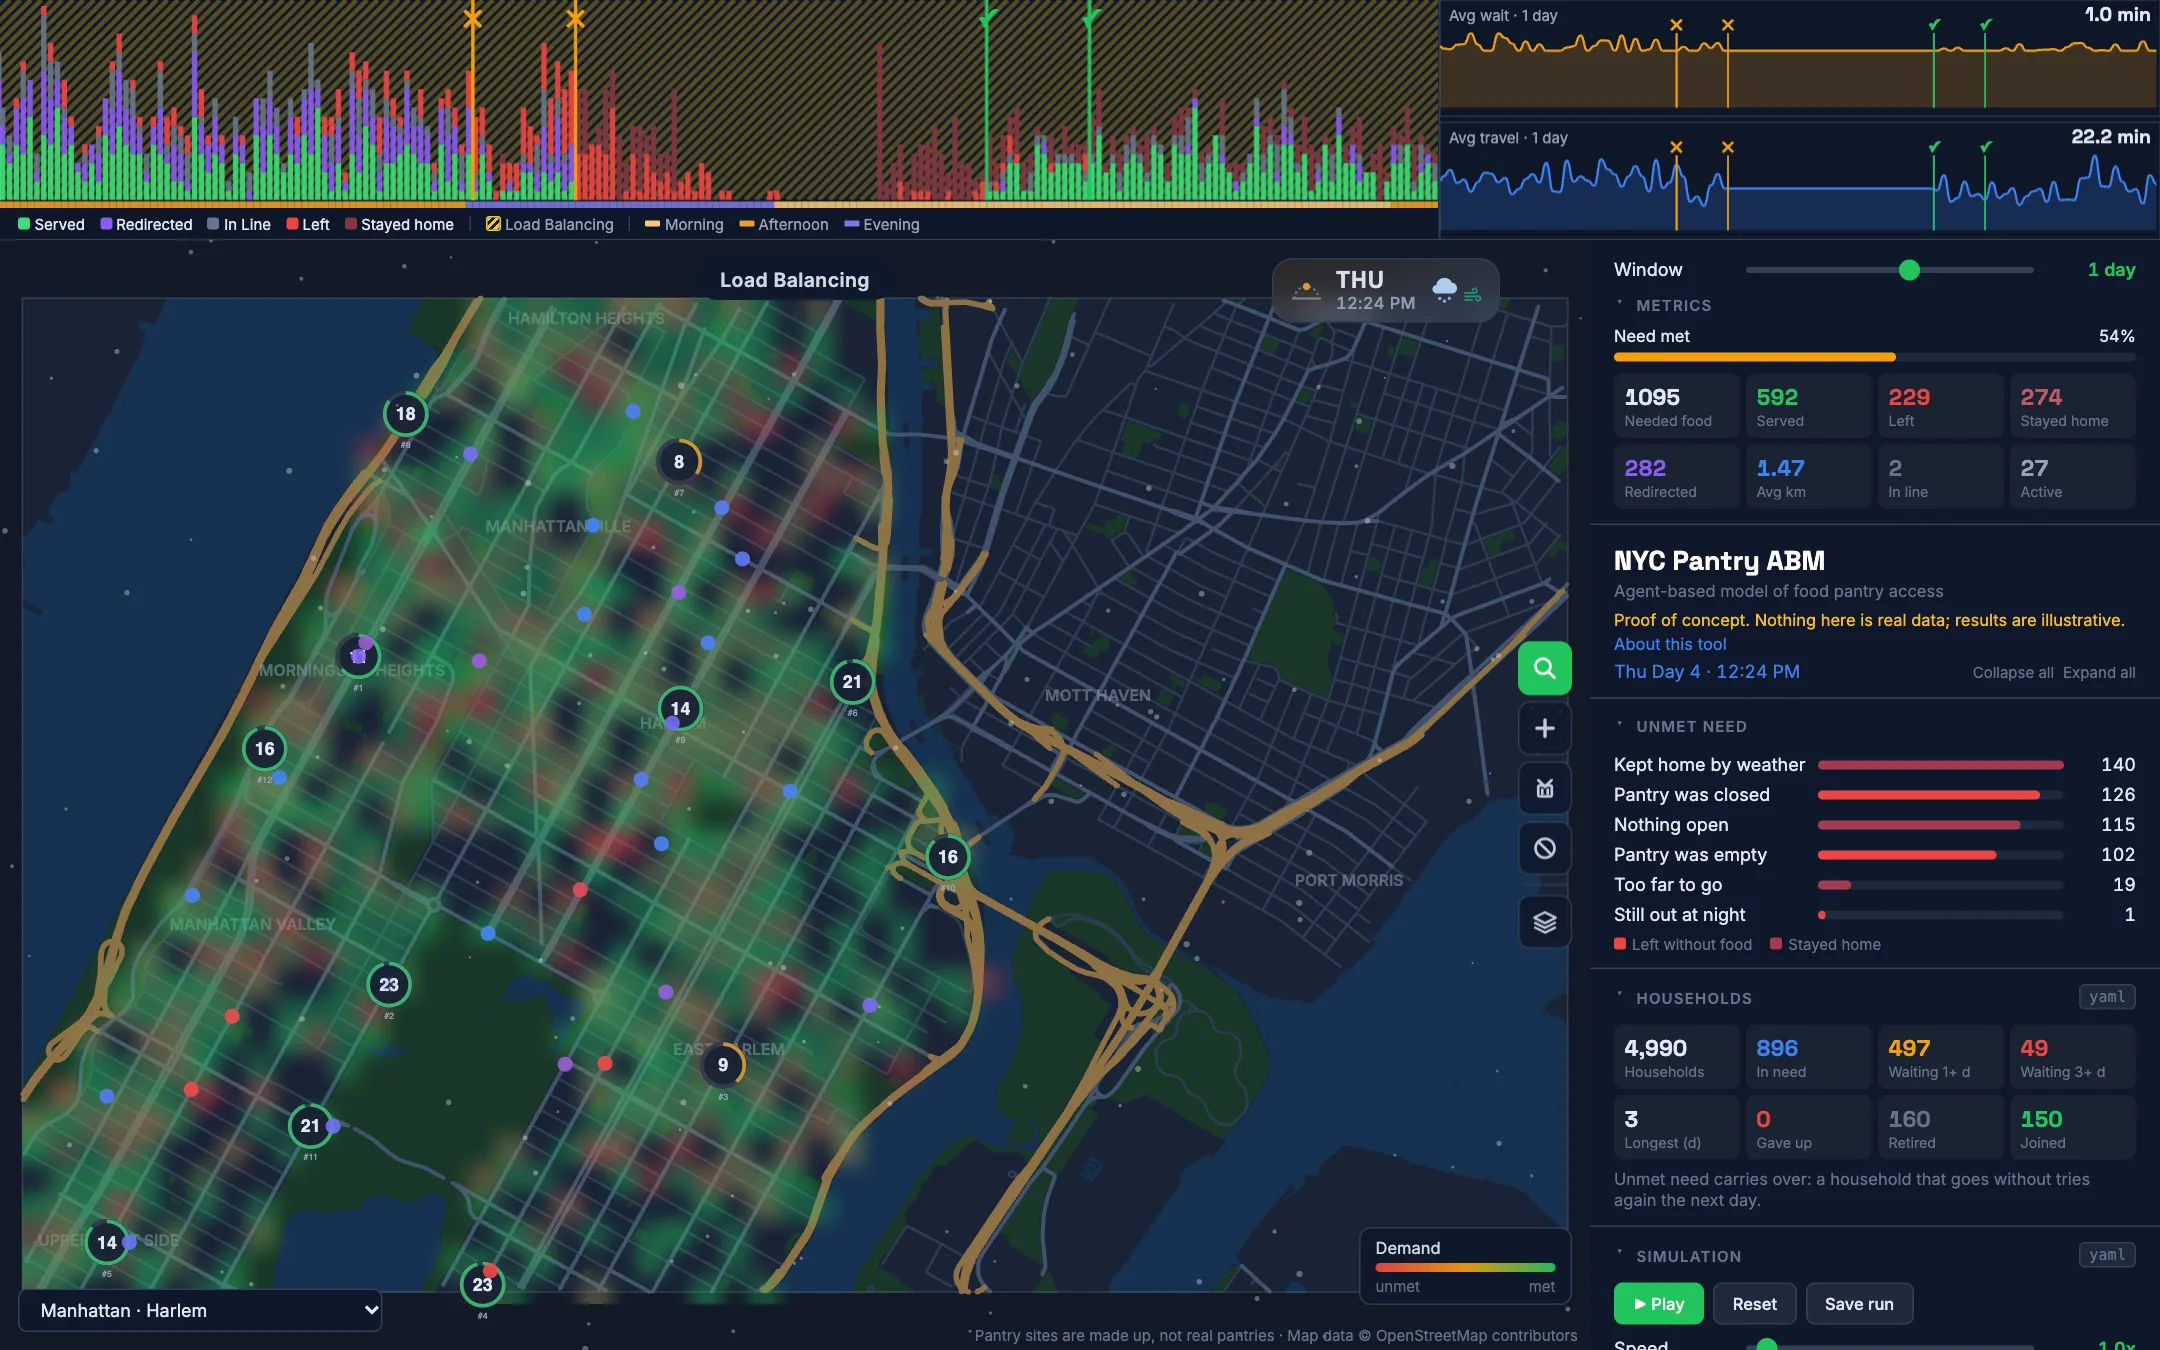
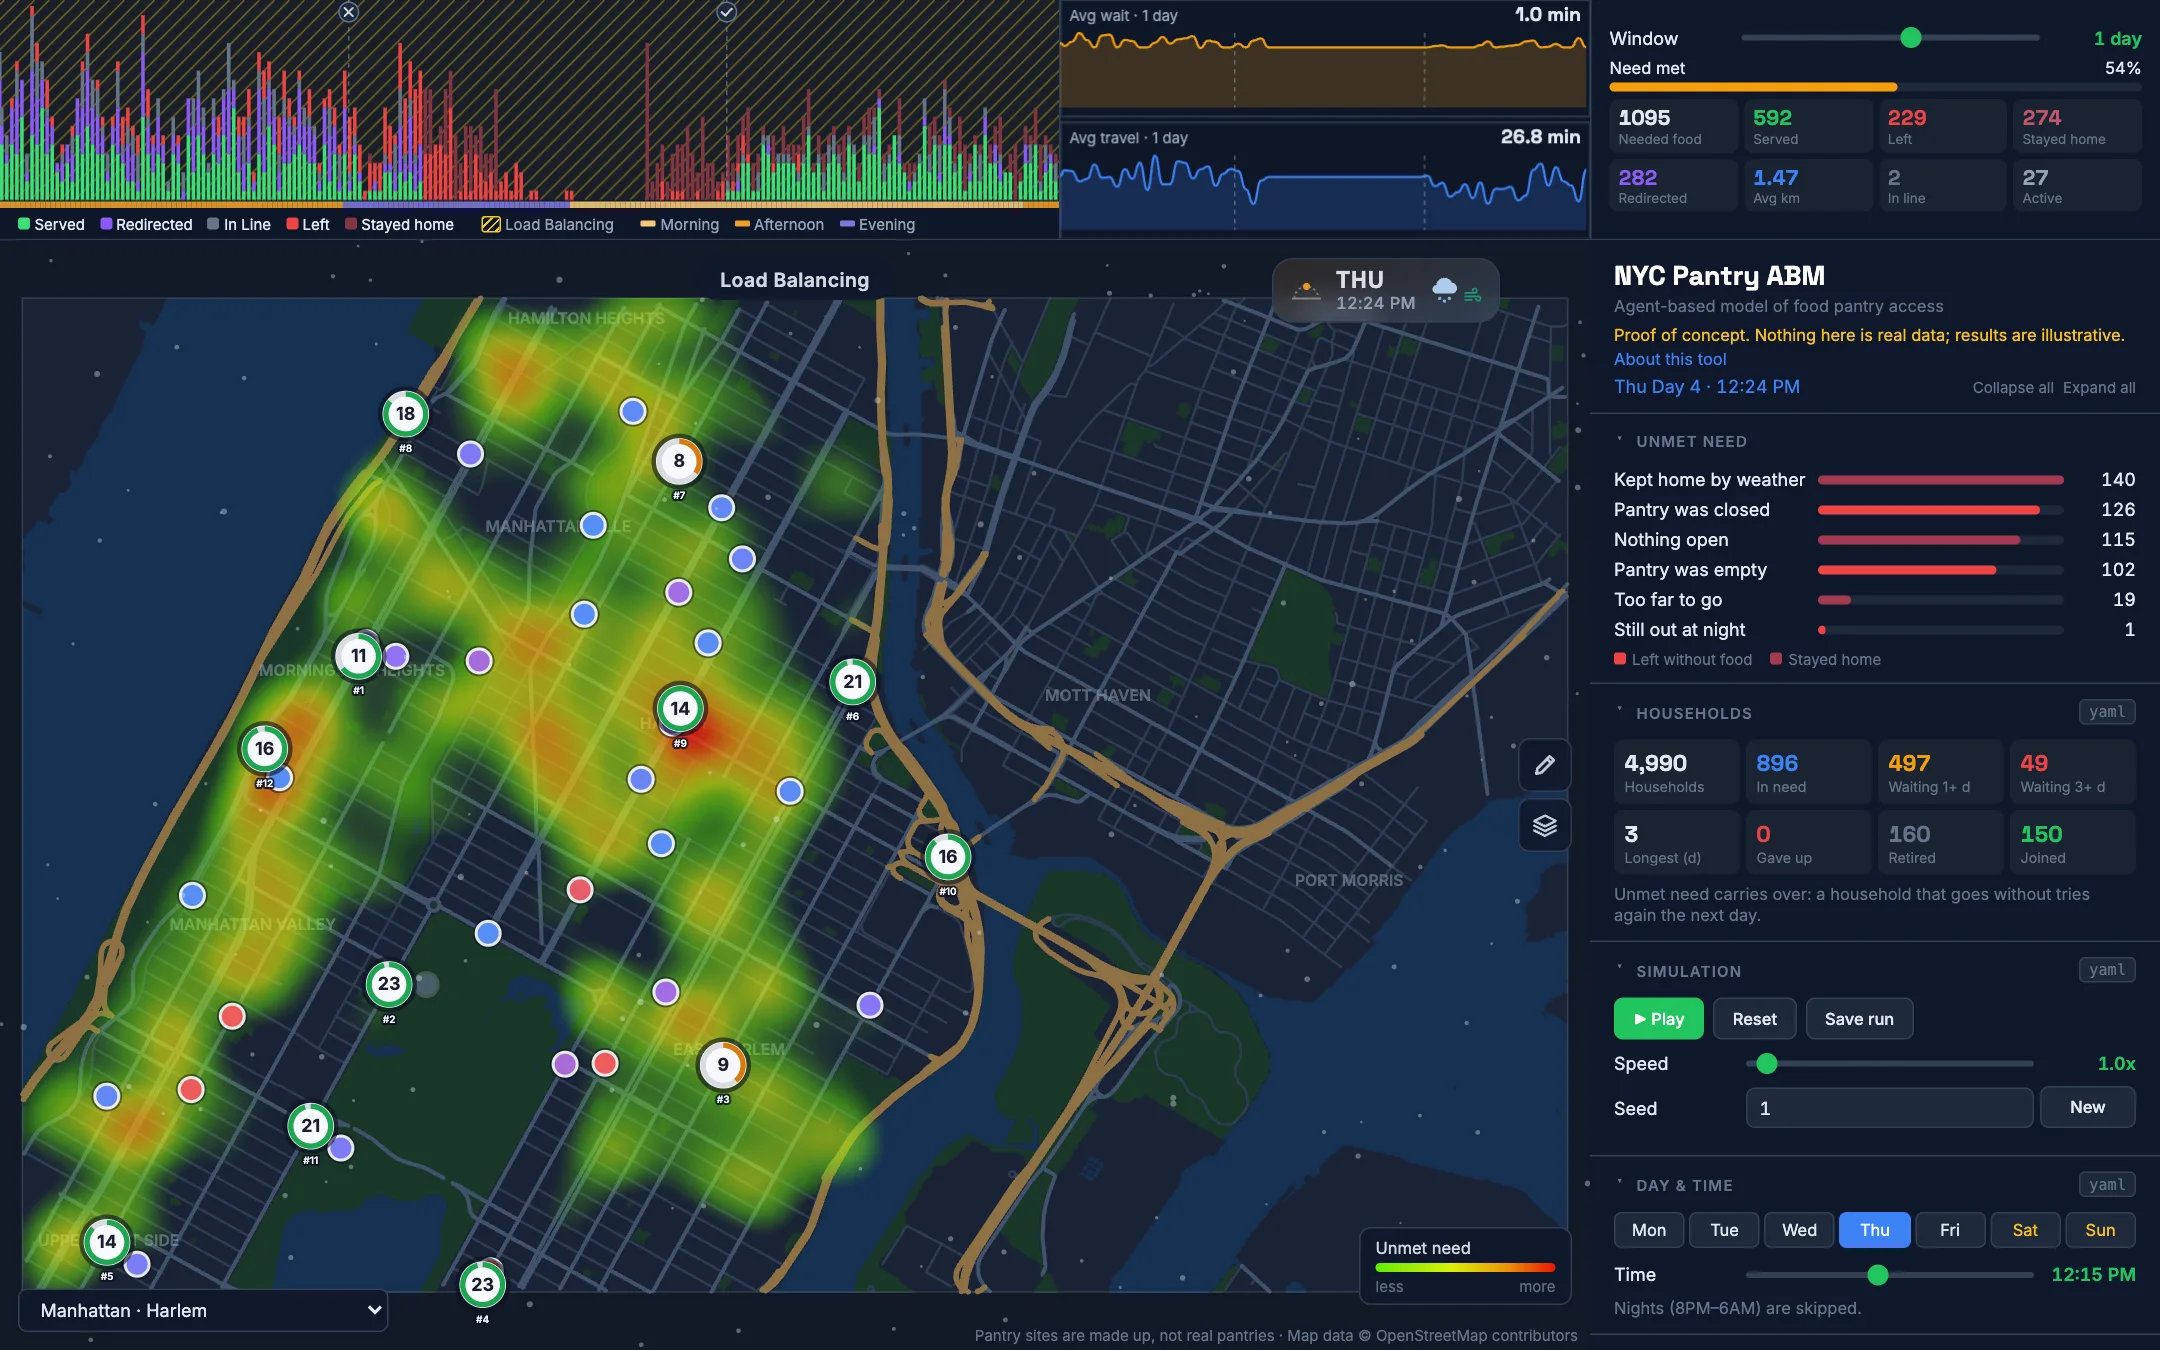
Bring the README and screenshots up to date with the new interface
- Describe the top bar (timeline, sparklines, numbers), the new pantry and
  people markers, event markers, and the per-modifier background patterns.
- Rewrite "Map tools" for the Pantry tools and Layers menus and the unmet
  need heatmap.
- Note that the tool starts from a random seed and how to pin one.
- Retake the four README screenshots and the link-preview image.

diff --git a/README.md b/README.md
@@ -8,7 +8,7 @@ The maps are real segments of the five boroughs, built from OpenStreetMap.
 
 **Status: proof of concept.** Apart from the street maps, nothing in it is real data yet. Pantries, households and their behavior are made up, and results are illustrative.
 
-![The tool on day 3 of a run on the Manhattan map: timeline and sparklines across the top, the map with pantries, people walking and households still waiting, and the panel with need met, reasons for unmet need, and the household pool](docs/screenshots/overview.webp)
+![The tool on day 3 of a run on the Manhattan map: timeline, sparklines and headline numbers across the top, the map with pantries and people walking, and the panel with the reasons for unmet need and the household pool](docs/screenshots/overview.webp)
 
 ## Why this exists
 
@@ -38,16 +38,18 @@ npm run build      # static site in dist/ (relative paths, so it works from any 
 
 The tool is designed for desktop and laptop screens, not phones.
 
-- **Timeline (top left).** Stacked bars of people served, redirected, waiting in line, leaving without food, and staying home, per time slice. Stripes behind the bars show which modifiers were on. The thin strip along the bottom shows the time of day: morning, afternoon or evening. Click a legend item to hide that band.
-- **Sparklines (top right).** Average wait and average travel time. Event markers (shocks, pantries added, removed, closed or reopened) line up with the timeline.
-- **Map.** Pantries show their remaining stock as a ring. A moon means the pantry is closed for the night; an X means you closed it by hand. Dots on the move are people on a trip; their color shows how they're doing, and it starts redder the longer their household has gone without. Small amber and red dots mark the homes of households still waiting for food (amber for 1–2 days, red for 3 or more). People too far from any pantry waggle in place and then time out.
-- **Panel (right).** Every section collapses. The **Window** slider at the top sets the time span for every chart and for the metrics, from 1 hour to the whole run.
+- **Timeline (top left).** Stacked bars of people served, redirected, waiting in line, leaving without food, and staying home, per time slice. A faint pattern behind the bars shows which modifiers were on; each modifier has its own pattern and color. The thin strip along the bottom shows the time of day: morning, afternoon or evening. Click a legend item to hide that band.
+- **Event markers.** A heavy line with a badge marks a shock, or a pantry you added, removed, closed or reopened. Quieter dashed lines mark the daily rhythm: a check where pantries start opening in the morning, a cross where they start closing in the evening.
+- **Sparklines (top middle).** Average wait and average travel time, with the same event markers.
+- **Numbers (top right).** The **Window** slider sets the time span for every chart and for these numbers, from 1 hour to the whole run. Below it are the share of need met and the counts for that window.
+- **Map.** Pantries are the large white disks. The number is the food left, and the ring around it shows how full the shelves are; an empty pantry shows a red 0. A dark disk with a moon is closed for the night, and a dark disk with an X is one you closed by hand. The smaller dots with white rings are people on a trip. The color inside shows how they're doing, and it starts redder the longer their household has gone without. People in line gather around the pantry. Someone who is turned away walks a short way back along their street and fades. People too far from any pantry waggle in place and then time out.
+- **Panel (right).** Controls and detail. Every section collapses.
 
 ### More screenshots
 
-Load balancing on, with the demand heatmap: green where people got food, red where they didn't. The stripes behind the timeline show when the modifier was on.
+Load balancing on, with the unmet need heatmap: the areas where the most households went without food, from green to red. The pattern behind the timeline shows when the modifier was on.
 
-![Load balancing with the demand heatmap on the Manhattan map](docs/screenshots/load-balancing-heatmap.webp)
+![Load balancing with the unmet need heatmap on the Manhattan map](docs/screenshots/load-balancing-heatmap.webp)
 
 A snow day on Staten Island's North Shore. Most unmet need comes from people kept home by the weather.
 
@@ -71,12 +73,13 @@ The **Households** section shows the pool: how many are in need, how many have w
 
 ### Map tools
 
-The toolbar on the right edge of the map lets you inspect, add, remove, and close or reopen pantries. The layers button turns these on and off:
+Two buttons sit on the right edge of the map.
 
-- Base map: water, parks, streets, highways, neighborhood names
-- Overlays: pantries, people on the move, households waiting, demand heatmap, weather effects
+**Pantry tools** opens a menu to add a pantry, remove one, or close and reopen one. Choose a tool, then click the map. The button turns green while a tool is on, and Escape puts it away. With no tool on, clicking a pantry inspects it.
 
-The **demand heatmap** colors each part of the map by where people started: green where they got food, red where they didn't. Stronger color means more people.
+**Layers** switches optional layers on and off. For now there is one, the unmet need heatmap. The base map, pantries, people and weather effects are always drawn.
+
+The **unmet need heatmap** shows where the households that went without food live, counted since the start of the run. Nearby areas merge into smooth patches that run from green through yellow to red. The scale is relative to the run: red is the worst area in this run, and areas with little unmet need are left clear. It shows where the gaps are, not how large they are compared with another run.
 
 ### Controls
 
@@ -89,7 +92,7 @@ The **demand heatmap** colors each part of the map by where people started: gree
 | Agents | Number of households, and how much capacity varies between pantries (both applied on Reset) |
 | Data | Summary of saved runs and CSV export |
 
-**Seed.** The seed fixes every random choice in a run: which pantry sites are used, the weather, who appears where, and what they decide. The same seed with the same settings replays the same run, on any machine. Type a seed or press New, then Reset. Two scenarios run on the same seed get the same pantries, weather and arrivals, so differences between them come from the scenario and not from luck.
+**Seed.** The seed fixes every random choice in a run: which pantry sites are used, the weather, who appears where, and what they decide. The same seed with the same settings replays the same run, on any machine. The tool picks a new random seed each time it loads and shows it in the Seed box, so note it down if you want to replay a run. Type a seed or press New, then Reset. To always start from the same seed, set `initial_seed` in `config/simulation.yaml` to a number. Two scenarios run on the same seed get the same pantries, weather and arrivals, so differences between them come from the scenario and not from luck.
 
 ### Settings
 
@@ -101,7 +104,7 @@ Every setting lives in a YAML file in `config/`, and every name ends with its un
 | `agents.yaml` | Households (pool size, how often they need food, memory, giving up, turnover), walking, patience, profiles, how a pantry is chosen |
 | `pantries.yaml` | Count, capacity, service rate, hours, restocking, the shock |
 | `weather.yaml` | Daily weather odds and what each condition does to people |
-| `modifiers.yaml` | The modifier toggles. A new `additive` entry with a `need_multiplier` works without code |
+| `modifiers.yaml` | The modifier toggles, with the color and pattern each one draws behind the timeline. A new `additive` entry with a `need_multiplier` works without code |
 | `display.yaml` | How things are drawn. Nothing here changes results |
 
 The files are the starting values. Edit one and the app reloads; a bad value stops the app with a message naming the file and the setting. Sliders change the live run, not the files. Sections with a `yaml` button show the file they belong to.
@@ -197,7 +200,7 @@ src/
   simulation/households.js  the household pool
   hooks/useSimulation.js    connects the engine to React
   components/               map, charts, panel, summary, config viewer
-  data/                     maps, and readers for profiles, modifiers and weather
+  data/                     maps, the list of map layers, and readers for profiles, modifiers and weather
   utils/                    pathfinding, random numbers, chart windowing, colors, CSV
   config.js                 loads config/*.yaml and converts units
 scripts/buildNycMaps.mjs    map builder
